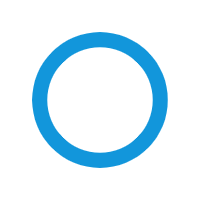
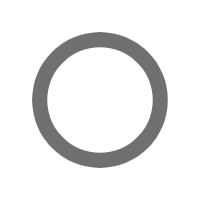
update
Add new functions-all finish and delete-all-finished tasks

Changed region(s): [[0.15, 0.15, 0.84, 0.84]]

diff --git a/js/index.js b/js/index.js
@@ -16,26 +16,13 @@ if (typeof(Storage) == "undefined") {
     alert('Sorry, your browser don\'t support Web Storage!');
 }
 
-// clear list
-function clearList(listName){
-    localStorage.removeItem(listName+'List');
-}
-
-// check whether has create 3 static lists 
-    // normal -> normal tasks
-    // today -> today's tasks
-    // important -> important tasks
+// check whether has create static list
 if(localStorage.taskList==null){
-    console.log('normal blank');
     taskList=[new Task('','')];
     localStorage.setItem('taskList',JSON.stringify(taskList));
 }else{
     // load the storage
     taskList = JSON.parse(localStorage.getItem('taskList'));
-    console.log(taskList);
-    if(taskList.length>1){
-        noticeHide();
-    }
     for(i=1;i<taskList.length;i++){
         task = taskList[i];
         star = 'star';
@@ -49,7 +36,7 @@ if(localStorage.taskList==null){
         if(task['isFinished']==false){
             uncplTaskNum++;
             document.getElementById("unfinishedTaskListDiv").innerHTML += "<div id=\""+task['id']+"\" class=\"taskDiv\">\n" +
-            "            <input type=\"checkbox\" class=\"check\" onchange=\"changeTaskStatement(this.parentNode)\">\n" +
+            "            <img class=\"checkIcon\" src=\"img/todo.png\" onclick=\"changeTaskStatement(this.parentNode)\" height=\"30\" width=\"30\">"+
             "            <div class=\"taskTextDiv\" onclick=\"openTask(this)\">\n" +
             "                <label class=\"checkTitle\">" + task['title'] + "</label><br/>\n" +
             "                <label class=\"checkDdl\">ddl: " + task['date'] + "</label>\n" +
@@ -59,7 +46,7 @@ if(localStorage.taskList==null){
             "        </div>";
         }else{
             document.getElementById("finishedListDiv").innerHTML += "<div id=\""+task['id']+"\" class=\"taskDiv\">\n" +
-            "            <input type=\"checkbox\" checked = true class=\"check\" onchange=\"changeTaskStatement(this.parentNode)\">\n" +
+            "            <img class=\"checkIcon\" src=\"img/finished.png\" onclick=\"changeTaskStatement(this.parentNode)\" height=\"30\" width=\"30\">"+
             "            <div class=\"taskTextDiv\" onclick=\"openTask(this)\">\n" +
             "                <label class=\"checkTitle\" style=\"text-decoration: line-through; color: #9d9d9d\">" + task['title'] + "</label><br/>\n" +
             "                <label class=\"checkDdl\">ddl: " + task['date'] + "</label>\n" +
@@ -72,6 +59,10 @@ if(localStorage.taskList==null){
     }
 }
 
+if(localStorage.all==null){
+    localStorage.setItem("all",JSON.stringify(0));
+}
+
 
 function openTask(taskDiv) {
     localStorage.setItem("currentTaskID",JSON.stringify(taskDiv.parentNode.id));
@@ -79,9 +70,13 @@ function openTask(taskDiv) {
 }
 
 function changeTaskStatement(taskDiv) {
-    state = taskDiv.firstElementChild.checked;
+    icon = taskDiv.firstElementChild;
+    
     taskTitle = taskDiv.childNodes[3].childNodes[1];
-    if (state == true) {
+    id = taskDiv.id;
+    task = taskList[taskList.findIndex(item=>item['id']==id)];
+    if (task['isFinished'] == false) {
+        icon.src = 'img/finished.png';
         taskTitle.style.textDecoration = "line-through";
         uncplTaskNum--;
         cplTaskNum++;
@@ -90,19 +85,14 @@ function changeTaskStatement(taskDiv) {
         
         // change storage
         taskList[taskList.findIndex(item=>item.id==taskDiv.id)]['isFinished']=true;
-        if (uncplTaskNum == 0) {
-            noticeShow();
-        }
     } else {
+        icon.src = 'img/todo.png';
         uncplTaskNum++;
         cplTaskNum--;
         taskTitle.style.textDecoration = "none";
         taskTitle.style.color = "#000000";
         document.getElementById("unfinishedTaskListDiv").append(taskDiv);
         taskList[taskList.findIndex(item=>item.title==taskTitle.textContent)]['isFinished']=false;
-        if (uncplTaskNum != 0) {
-            noticeHide();
-        }
     }
     localStorage.taskList=JSON.stringify(taskList);
 }
@@ -112,11 +102,27 @@ var completedList = 0;
 function showOrHideCompleted() {
     if (0 == completedList) {
         completedList = 1;
+        document.getElementById("deleteBtn").style.display="none";
         document.getElementById("finishedListDiv").style.display = "none";
     } else {
         completedList = 0;
+        document.getElementById("deleteBtn").style.display="";
         document.getElementById("finishedListDiv").style.display = "";
     }
+}
+
+function deleteAllFinishedTask(){
+    taskList=JSON.parse(localStorage.getItem("taskList"));
+    for(var i=1 ; i<taskList.length;){
+        task = taskList[i];
+        if(task["isFinished"]==true){
+            taskList.splice(i,1);
+        }else{
+            i++;
+        }
+    }
+    localStorage.setItem("taskList",JSON.stringify(taskList));
+    location.reload();
 }
 
 function addTask(newTaskDiv) {
@@ -136,13 +142,10 @@ function addTask(newTaskDiv) {
     task = new Task(title,date);
     taskList.push(task);
     localStorage.setItem('taskList',JSON.stringify(taskList));
-    // remove the 'No Task' notice
-    uncplTaskNum++;
-    noticeHide();
 
     // add new element to the list
     document.getElementById("unfinishedTaskListDiv").innerHTML += "<div id=\""+task.id+"\" class=\"taskDiv\">\n" +
-        "            <input type=\"checkbox\" class=\"check\" onchange=\"changeTaskStatement(this.parentNode)\">\n" +
+        "            <img class=\"checkIcon\" src=\"img/todo.png\" onclick=\"changeTaskStatement(this.parentNode)\" height=\"30\" width=\"30\">"+
         "            <div class=\"taskTextDiv\" onclick=\"openTask(this)\">\n" +
         "                <label class=\"checkTitle\">" + title + "</label><br/>\n" +
         "                <label class=\"checkDdl\">ddl: " + date + "</label>\n" +
@@ -155,17 +158,6 @@ function addTask(newTaskDiv) {
     newTaskDiv.childNodes[3].value = "";
 }
 
-function noticeHide() {
-    p = document.getElementById("notice").childNodes;
-    p[1].style.display="none";
-    p[3].style.display="none";
-}
-
-function noticeShow() {
-    p = document.getElementById("notice").childNodes;
-    p[1].style.display="";
-    p[3].style.display="";
-}
 
 function addImportant(taskNode){
     // get task's title
@@ -266,7 +258,7 @@ function filt(){
                 today = 'suned';
             }
             listDiv.innerHTML+="<div id=\""+task['id']+"\" class=\"taskDiv\">\n" +
-            "            <input type=\"checkbox\" class=\"check\" onchange=\"changeTaskStatement(this.parentNode)\">\n" +
+            "            <img class=\"checkIcon\" src=\"img/todo.png\" onclick=\"changeTaskStatement(this.parentNode)\" height=\"30\" width=\"30\">"+
             "            <div class=\"taskTextDiv\" onclick=\"openTask(this)\">\n" +
             "                <label class=\"checkTitle\">" + task['title'] + "</label><br/>\n" +
             "                <label class=\"checkDdl\">ddl: " + task['date'] + "</label>\n" +
@@ -301,4 +293,25 @@ function match(task,flag){
         case 4:
             return true;
     }
+}
+
+function changeAll(img){
+    allFinished = localStorage.getItem("all");
+    taskList = JSON.parse(localStorage.getItem('taskList'));
+    if(allFinished==0){
+        img.src="img/finished.png";
+        for(i=1;i<taskList.length;i++){
+            taskList[i]['isFinished']=true;
+        }
+        localStorage.setItem("all",JSON.stringify(1));
+    }else{
+        allFinished=0;
+        img.src="img/todo.png";
+        for(i=1;i<taskList.length;i++){
+            taskList[i]['isFinished']=false;
+        }
+        localStorage.setItem("all",JSON.stringify(0));
+    }
+    localStorage.setItem("taskList",JSON.stringify(taskList));
+    location.reload();
 }

diff --git a/index.html b/index.html
@@ -20,22 +20,22 @@
 
     <div class="filterDiv">
         <div class="filtBtn">
+            <img id="filtImg0" src="img/todo.png" height="30" width="30" onclick="changeAll(this)"/>
+            <label class="filtTitle">All-finish</label>
+        </div>
+        <div class="filtBtn">
             <img id="filtImg1" src="img/sun.png" height="30" width="30" onclick="filtToday(this)"/>
-            <label class="filtTitle">Today's Tasks</label>
+            <label class="filtTitle">Today</label>
         </div>
         <div class="filtBtn">
             <img id="filtImg2" src="img/star.png" height="30" width="30" onclick="filtImportant(this)"/>
-            <label class="filtTitle">Important Tasks</label>
+            <label class="filtTitle">Important</label>
         </div>
     </div>
     <!--    task list-->
     <div class="taskListDiv" id="unfinishedTaskListDiv">
-        <div id="notice">
-            <p>Congratulation! Here's no task!</p>
-            <p>What about add some?</p>
-        </div>
        <!-- <div class="taskDiv">
-            <input type="checkbox" class="check" onchange="changeTaskStatement(this.parentNode)">
+           <img class="checkIcon" src="img/todo.png" onclick="changeTaskStatement(this.parentNode)" height="30" width="30">
             <div class="taskTextDiv" onclick="openTask(this)">
                 <label class="checkTitle" >task1</label><br/>
                 <label class="checkDdl">ddl: June 26</label>
@@ -47,10 +47,17 @@
     </div>
 
     <!--    the button to show/hide completed tasks-->
-    <div id="completeBtn">
-        <input id="cplBtn" type="button" value="Completed" onclick="showOrHideCompleted()">
-        <label for="cplBtn">Completed</label>
+    <div class="footBtn">
+        <div id="completeBtn">
+            <input id="cplBtn" type="button" value="Completed" onclick="showOrHideCompleted()">
+            <label for="cplBtn">Completed</label>
+        </div>
+        <div id="deleteBtn">
+            <input id="delBtn" type="button" value="Completed" onclick="deleteAllFinishedTask()">
+            <label for="delBtn">Delete all finished tasks</label>
+        </div>
     </div>
+    
 
     <!--    finish task list-->
     <div class="taskListDiv" id="finishedListDiv">

diff --git a/css/style.css b/css/style.css
@@ -53,6 +53,11 @@ ul{
 .taskDiv:hover{
     background-color: #d3d3d3;
 }
+
+.checkIcon{
+    align-self: center;
+    margin-left: 0.625rem;
+}
 .filterDiv{
     display: flex;
     justify-content:space-evenly;
@@ -81,7 +86,7 @@ ul{
     height: 3.125rem;
     vertical-align: center;
     margin-top: 0.625rem;
-    margin-left: 1.25rem;
+    margin-left: 0.625rem;
 }
 
 .check{
@@ -130,6 +135,33 @@ ul{
 #finishedListDiv{
     margin-bottom: 3.75rem;
 }
+
+#deleteBtn{
+    height: 1.875rem;
+    width: 12.5rem;
+    display: flex;
+    align-items: flex-start;
+}
+
+#delBtn{
+    display: none;
+}
+
+#deleteBtn label{
+    margin-top: 10px;
+    color: #fff;
+    background-color: rgba(129, 6, 6, 0.5);
+    height: 0.875rem;
+    line-height: 0.875rem;
+    vertical-align: center;
+    border-radius: 0.625rem;
+    justify-content: center;
+    margin-left: 0.3125rem;
+    margin-right: 0.3125rem;
+    font-size: 0.75rem;
+}
+
+
 
 #iptNewTaskDiv{
     width: 100%;
